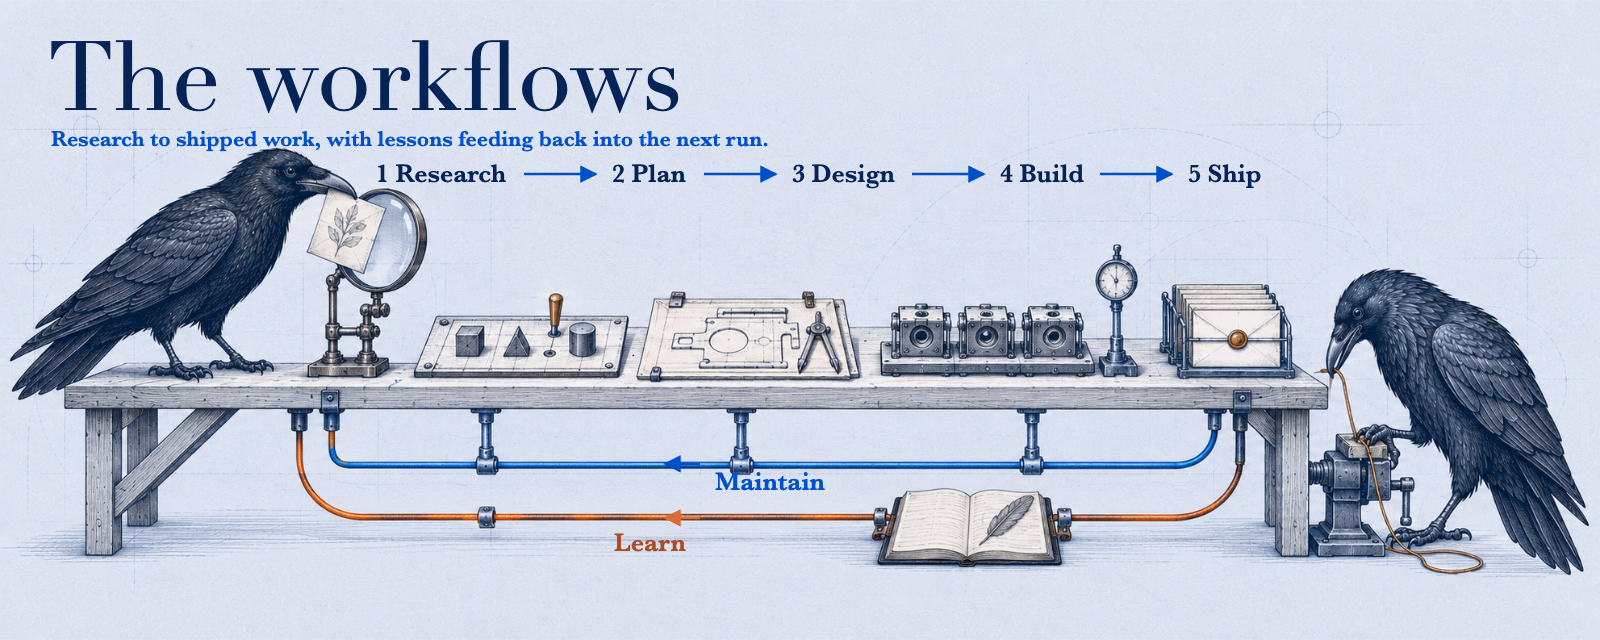
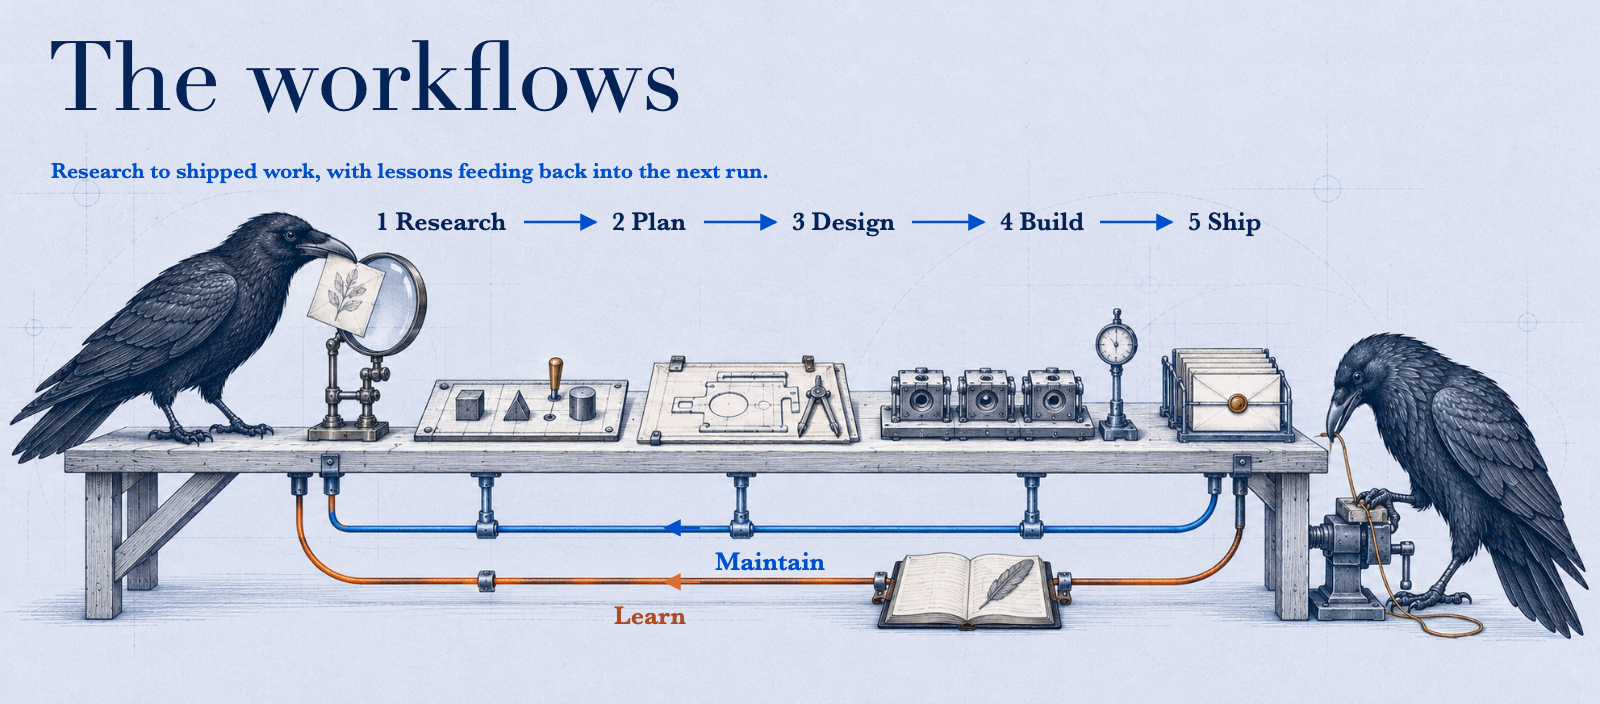
docs: give workflow lettering consistent vertical breathing room

Changed region(s): [[0.0, 0.0312, 1.0, 0.9062]]

diff --git a/DESIGN.md b/DESIGN.md
@@ -85,7 +85,7 @@ The testing diagrams use self-contained HTML sources in `docs/assets/testing-flo
 
 The README introduces Huginn and Muninn with the overflowing-notebook scene in `docs/assets/huginn-and-muninn.svg`. Huginn brings one more field note while Muninn makes room for it. The SVG embeds `docs/assets/huginn-and-muninn-artwork.png` and keeps their names, roles, and caption as editable Baskerville text. Update the vector text for copy changes and preserve the separate artwork plate.
 
-Repository banners use a wide landscape canvas (1600 × 640). They depend on large silhouettes, sparse text, and generous negative space so the image retains a clear reading when GitHub scales it to the content column. Choose dimensions for future explanatory visuals based on where people will view them. Do not reuse dimensions from a removed asset format by default.
+The README banner uses a wide landscape canvas (1600 × 640). The workflow banner is 1600 × 704 to give its tagline and delivery labels more vertical space. They depend on large silhouettes, sparse text, and generous negative space so the image retains a clear reading when GitHub scales it to the content column. Choose dimensions for future explanatory visuals based on where people will view them. Do not reuse dimensions from a removed asset format by default.
 
 A banner should make its main elements clear at first glance. Give the title a clear area, make the corvid's action dominant, and place a route or mechanism across the remaining space. Other explanatory visuals should concentrate on one job or relationship at a time. The mechanism should be readable before the texture, and the subject should face or move into the next meaningful area of the composition.
 
